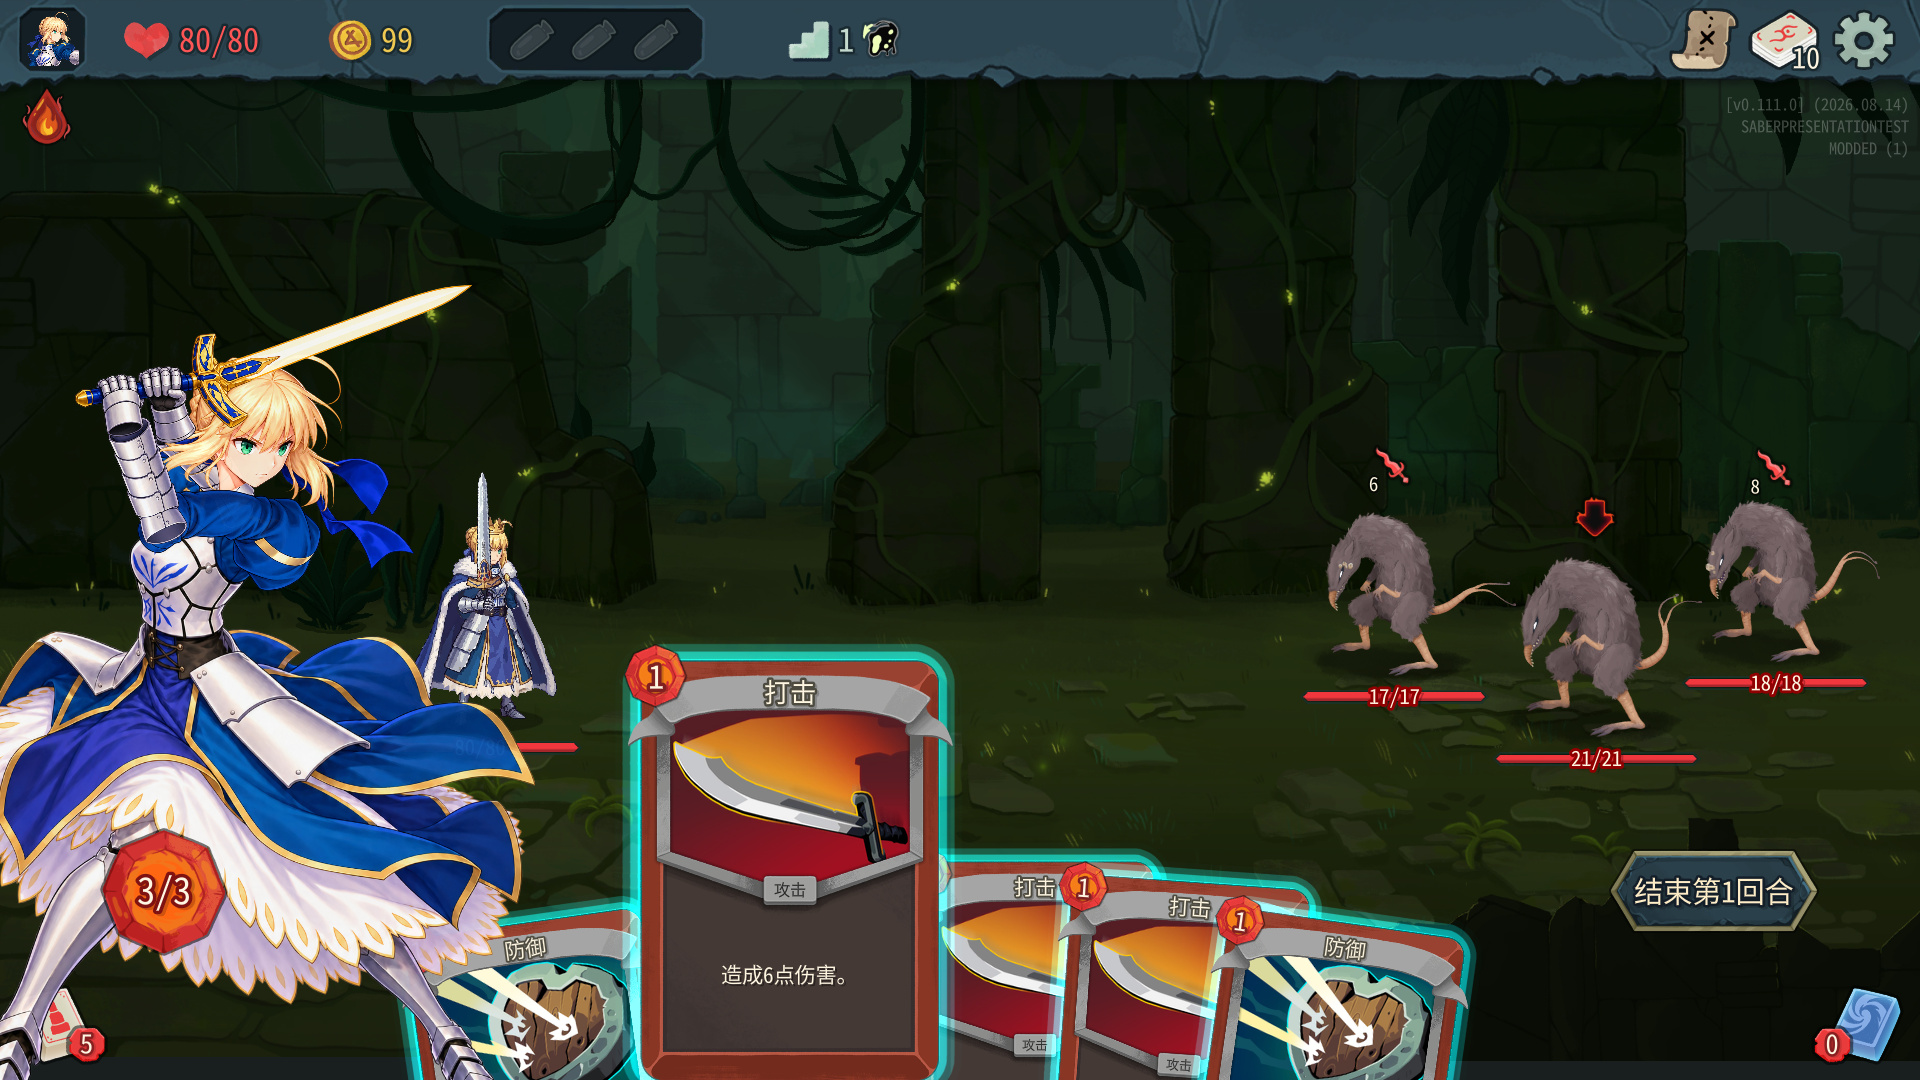
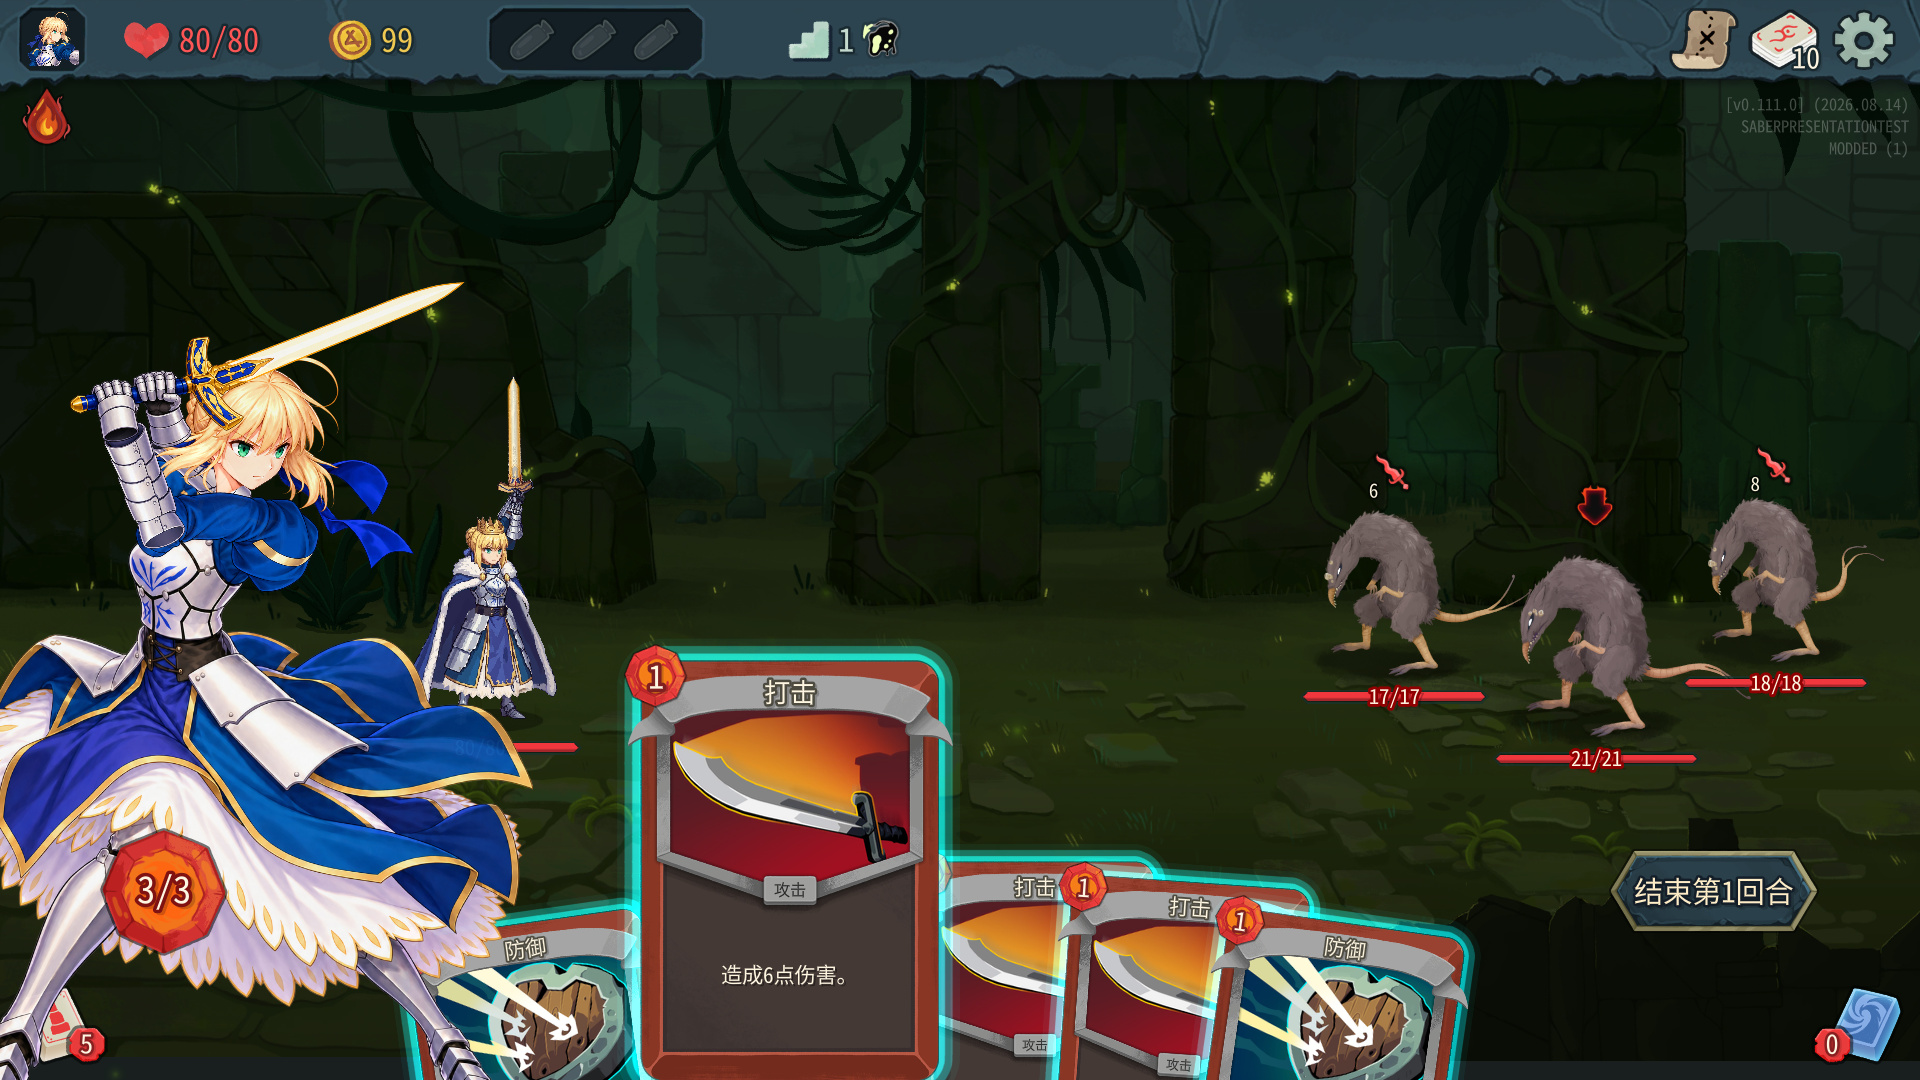
Record verified public Workshop v0.3.10 publication

diff --git a/workshop/README.md b/workshop/README.md
@@ -1,8 +1,8 @@
 # Steam 创意工坊发布
 
-公开条目：[Saber 战斗演出 / Saber Combat Presentation](https://steamcommunity.com/sharedfiles/filedetails/?id=3827762528)。首次发布版本为 0.3.8，当前发布版本为 0.3.9；`published.json` 保存 Steam 返回的公开状态与上传载荷校验值。
+公开条目：[Saber 战斗演出 / Saber Combat Presentation](https://steamcommunity.com/sharedfiles/filedetails/?id=3827762528)。首次发布版本为 0.3.8，当前发布版本为 0.3.10；`published.json` 保存 Steam 返回的公开状态与上传载荷校验值。
 
-`workshop.json` 保存公开标题、说明、可见性、更新说明与依赖。`image.png` 和 `previews/` 均来自实际游戏截图。v0.3.9 的竖剑预览使用全屏 1920×1080 截图；竖剑与卡美洛预览仅转换为 JPEG 以满足 Steam 每张小于 1 MB 的要求，保持原始尺寸。完整 PNG 通过 GitHub Release 提供。
+`workshop.json` 保存公开标题、说明、可见性、更新说明与依赖。`image.png` 和 `previews/` 均来自实际游戏截图。v0.3.10 的双手头顶蓄力预览使用全屏 1920×1080 截图；蓄力与卡美洛预览仅转换为 JPEG 以满足 Steam 每张小于 1 MB 的要求，保持原始尺寸。完整 PNG 与放大动作预览视频通过 GitHub Release 提供。
 
 发布工作区位于相邻目录 `SaberPresentationWorkshop/`，其 `content/` 平放当前 `dist/<版本>/SaberPresentation/` 的成品。准备脚本核对全部文件的数量和 SHA-256，避免把旧文件混入工坊版本。Steam 当前登录账号需拥有游戏。
 
